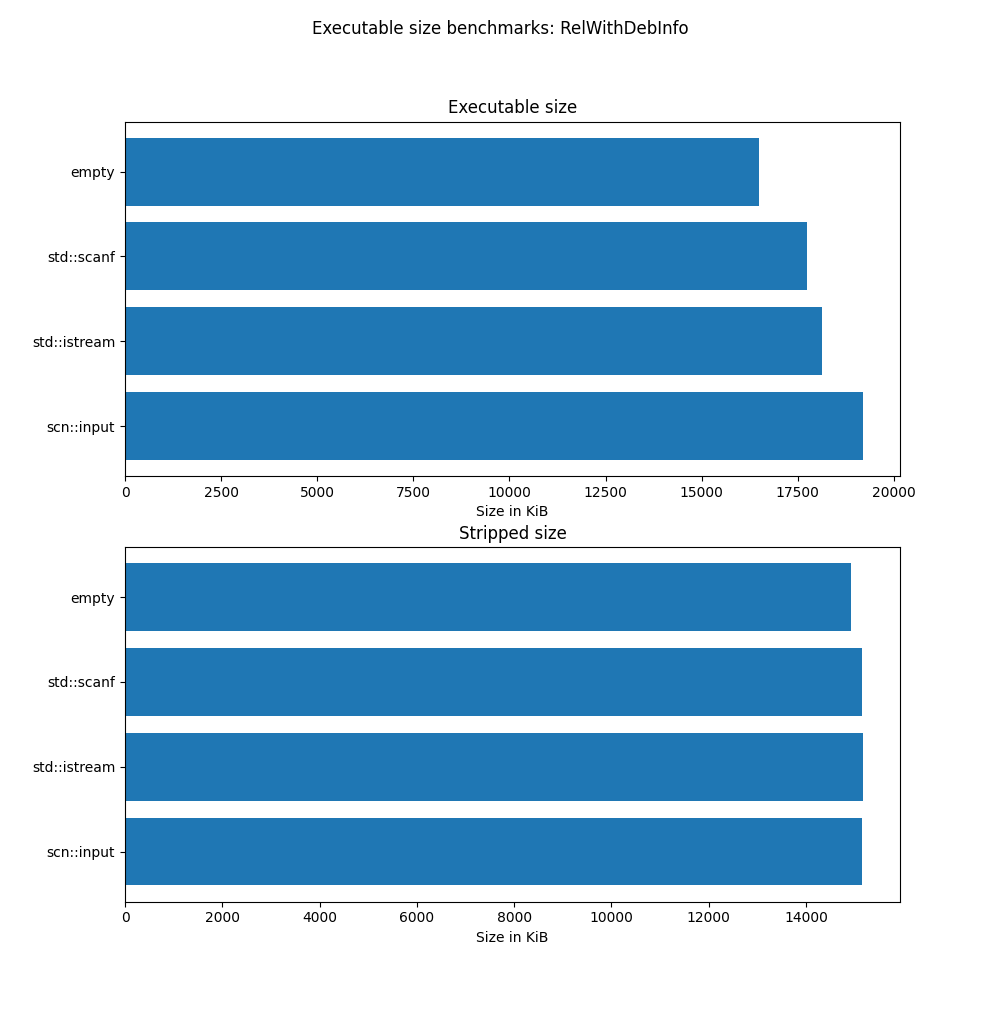
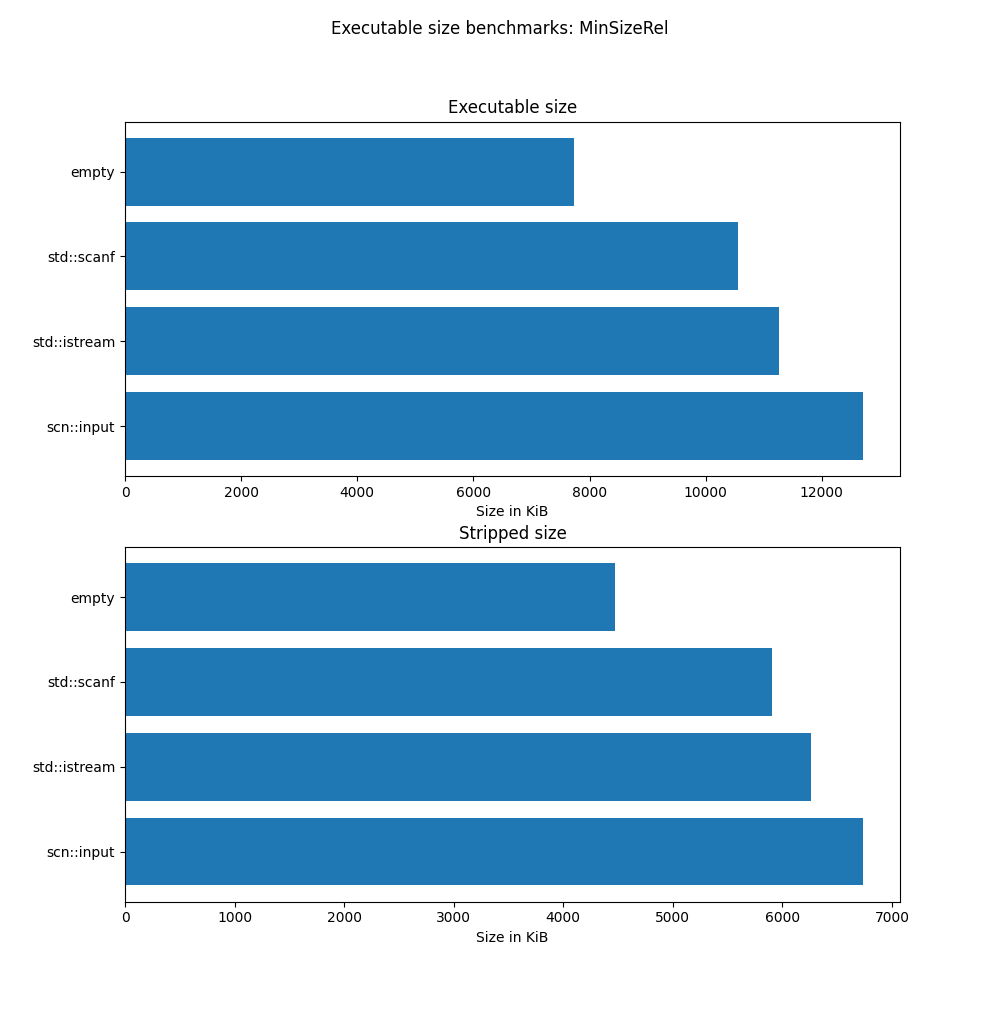
Update binary size and build time benchmark results

diff --git a/README.md b/README.md
@@ -310,14 +310,14 @@ Lower is better.
 
 ![Release result, chart](benchmark/binarysize/graph-release.png)
 
-Size of `scnlib` shared library (`.so`): 1.4M
+Size of `scnlib` shared library (`.so`): 1.7M
 
 | Method         | Executable size | Stripped size |
-|:---------------|----------------:|--------------:|
-| empty          |            16.1 |          14.6 |
-| `std::scanf`   |            17.4 |          14.8 |
-| `std::istream` |            17.8 |          14.8 |
-| `scn::input`   |            17.7 |          14.8 |
+| :------------- | --------------: | ------------: |
+| empty          |             7.6 |           4.4 |
+| `std::scanf`   |            10.4 |           5.8 |
+| `std::istream` |            11.1 |           6.2 |
+| `scn::input`   |            11.2 |           6.4 |
 
 #### Minimized (MinSizeRel) build (`-Os -DNDEBUG` + LTO)
 
@@ -326,31 +326,30 @@ Size of `scnlib` shared library (`.so`): 1.4M
 Size of `scnlib` shared library (`.so`): 1.1M
 
 | Method         | Executable size | Stripped size |
-|:---------------|----------------:|--------------:|
-| empty          |            16.1 |          14.6 |
-| `std::scanf`   |            17.3 |          14.8 |
-| `std::istream` |            17.7 |          14.8 |
-| `scn::input`   |            18.8 |          14.8 |
+| :------------- | --------------: | ------------: |
+| empty          |             7.5 |           4.4 |
+| `std::scanf`   |            10.3 |           5.8 |
+| `std::istream` |            11.0 |           6.1 |
+| `scn::input`   |            12.4 |           6.6 |
 
 #### Debug build (`-g -O0`)
 
 ![Debug result, chart](benchmark/binarysize/graph-debug.png)
 
-Size of `scnlib` shared library (`.so`): 19M
+Size of `scnlib` shared library (`.so`): 20M
 
 | Method         | Executable size | Stripped size |
-|:---------------|----------------:|--------------:|
-| empty          |            25.6 |          14.6 |
-| `std::scanf`   |             569 |          26.9 |
-| `std::istream` |             527 |          18.8 |
-| `scn::input`   |            2112 |          42.8 |
+| :------------- | --------------: | ------------: |
+| empty          |            18.4 |           5.2 |
+| `std::scanf`   |             429 |          11.8 |
+| `std::istream` |             438 |           9.4 |
+| `scn::input`   |            2234 |          51.3 |
 
 #### Conclusions
 
 When using optimized builds, depending on compiler flags, scnlib provides a
 binary, the size of which is within ~5% of what would be produced with `scanf`
-or `<iostream>`s. Interestingly, when doing a MinSizeRel-build,
-the scnlib binary is bigger, than when doing a Release-build.
+or `<iostream>`s.
 In a Debug-environment, scnlib is ~5x bigger when compared to `scanf`
 or `<iostream>`. After `strip`ing the binaries,
 these differences largely go away, except in Debug builds.
@@ -363,7 +362,7 @@ This is done to simulate a small project.
 `scnlib` is linked dynamically, to level the playing field with the standard
 library, which is also dynamically linked.
 
-The code was compiled on Fedora 39, with gcc 13.2.1.
+The code was compiled on Fedora 40, with gcc 14.1.1.
 See the directory `benchmark/binarysize` for the source code.
 
 You can run these benchmarks yourself by enabling the CMake
@@ -395,9 +394,9 @@ Lower is better.
 | Method       | Debug | Release |
 |:-------------|------:|--------:|
 | empty        |  0.05 |    0.05 |
-| `scanf`      |  0.20 |    0.19 |
-| `<iostream>` |  0.26 |    0.25 |
-| `scn::input` |  1.06 |    0.97 |
+| `scanf`      |  0.22 |    0.20 |
+| `<iostream>` |  0.28 |    0.27 |
+| `scn::input` |  0.54 |    0.45 |
 
 #### Memory consumption
 
@@ -407,15 +406,15 @@ Lower is better.
 | Method       | Debug | Release |
 |:-------------|------:|--------:|
 | empty        |  21.0 |    23.3 |
-| `scanf`      |  54.7 |    52.4 |
-| `<iostream>` |  66.4 |    63.9 |
-| `scn::input` |   203 |     185 |
+| `scanf`      |  56.3 |    53.6 |
+| `<iostream>` |  67.8 |    65.0 |
+| `scn::input` |   102 |    91.0 |
 
 #### Conclusions
 
-Code using scnlib takes around 3x-5x longer to compile compared to `<iostream>`,
-and also uses around 3x-4x more memory.
-Debug and Release builds make no major difference.
+Code using scnlib takes around 2x longer to compile compared to `<iostream>`,
+and also uses around 1.5x more memory.
+Release builds seem to be slightly faster as compared to Debug builds.
 
 #### About
 
@@ -424,8 +423,8 @@ libraries.
 The time taken to compile the library itself is not taken into account (the
 standard library is precompiled, anyway).
 
-These tests were run on a Fedora 39 machine, with an AMD Ryzen 7 5700X
-processor, using gcc version 13.2.1.
+These tests were run on a Fedora 40 machine, with an AMD Ryzen 7 5700X
+processor, using gcc version 14.1.1.
 The compiler flags used for a Debug build were `-g`, and `-O3 -DNDEBUG` for a
 Release build.
 
@@ -455,11 +454,11 @@ https://github.com/r1chardj0n3s/parse
 
 ### Third-party libraries
 
-NanoRange for C++17 Ranges implementation:  
-https://github.com/tcbrindle/NanoRange
-
 fast_float for floating-point number parsing:  
 https://github.com/fastfloat/fast_float
+
+NanoRange for a minimal `<ranges>` implementation:  
+https://github.com/tcbrindle/NanoRange
 
 ## License
 
